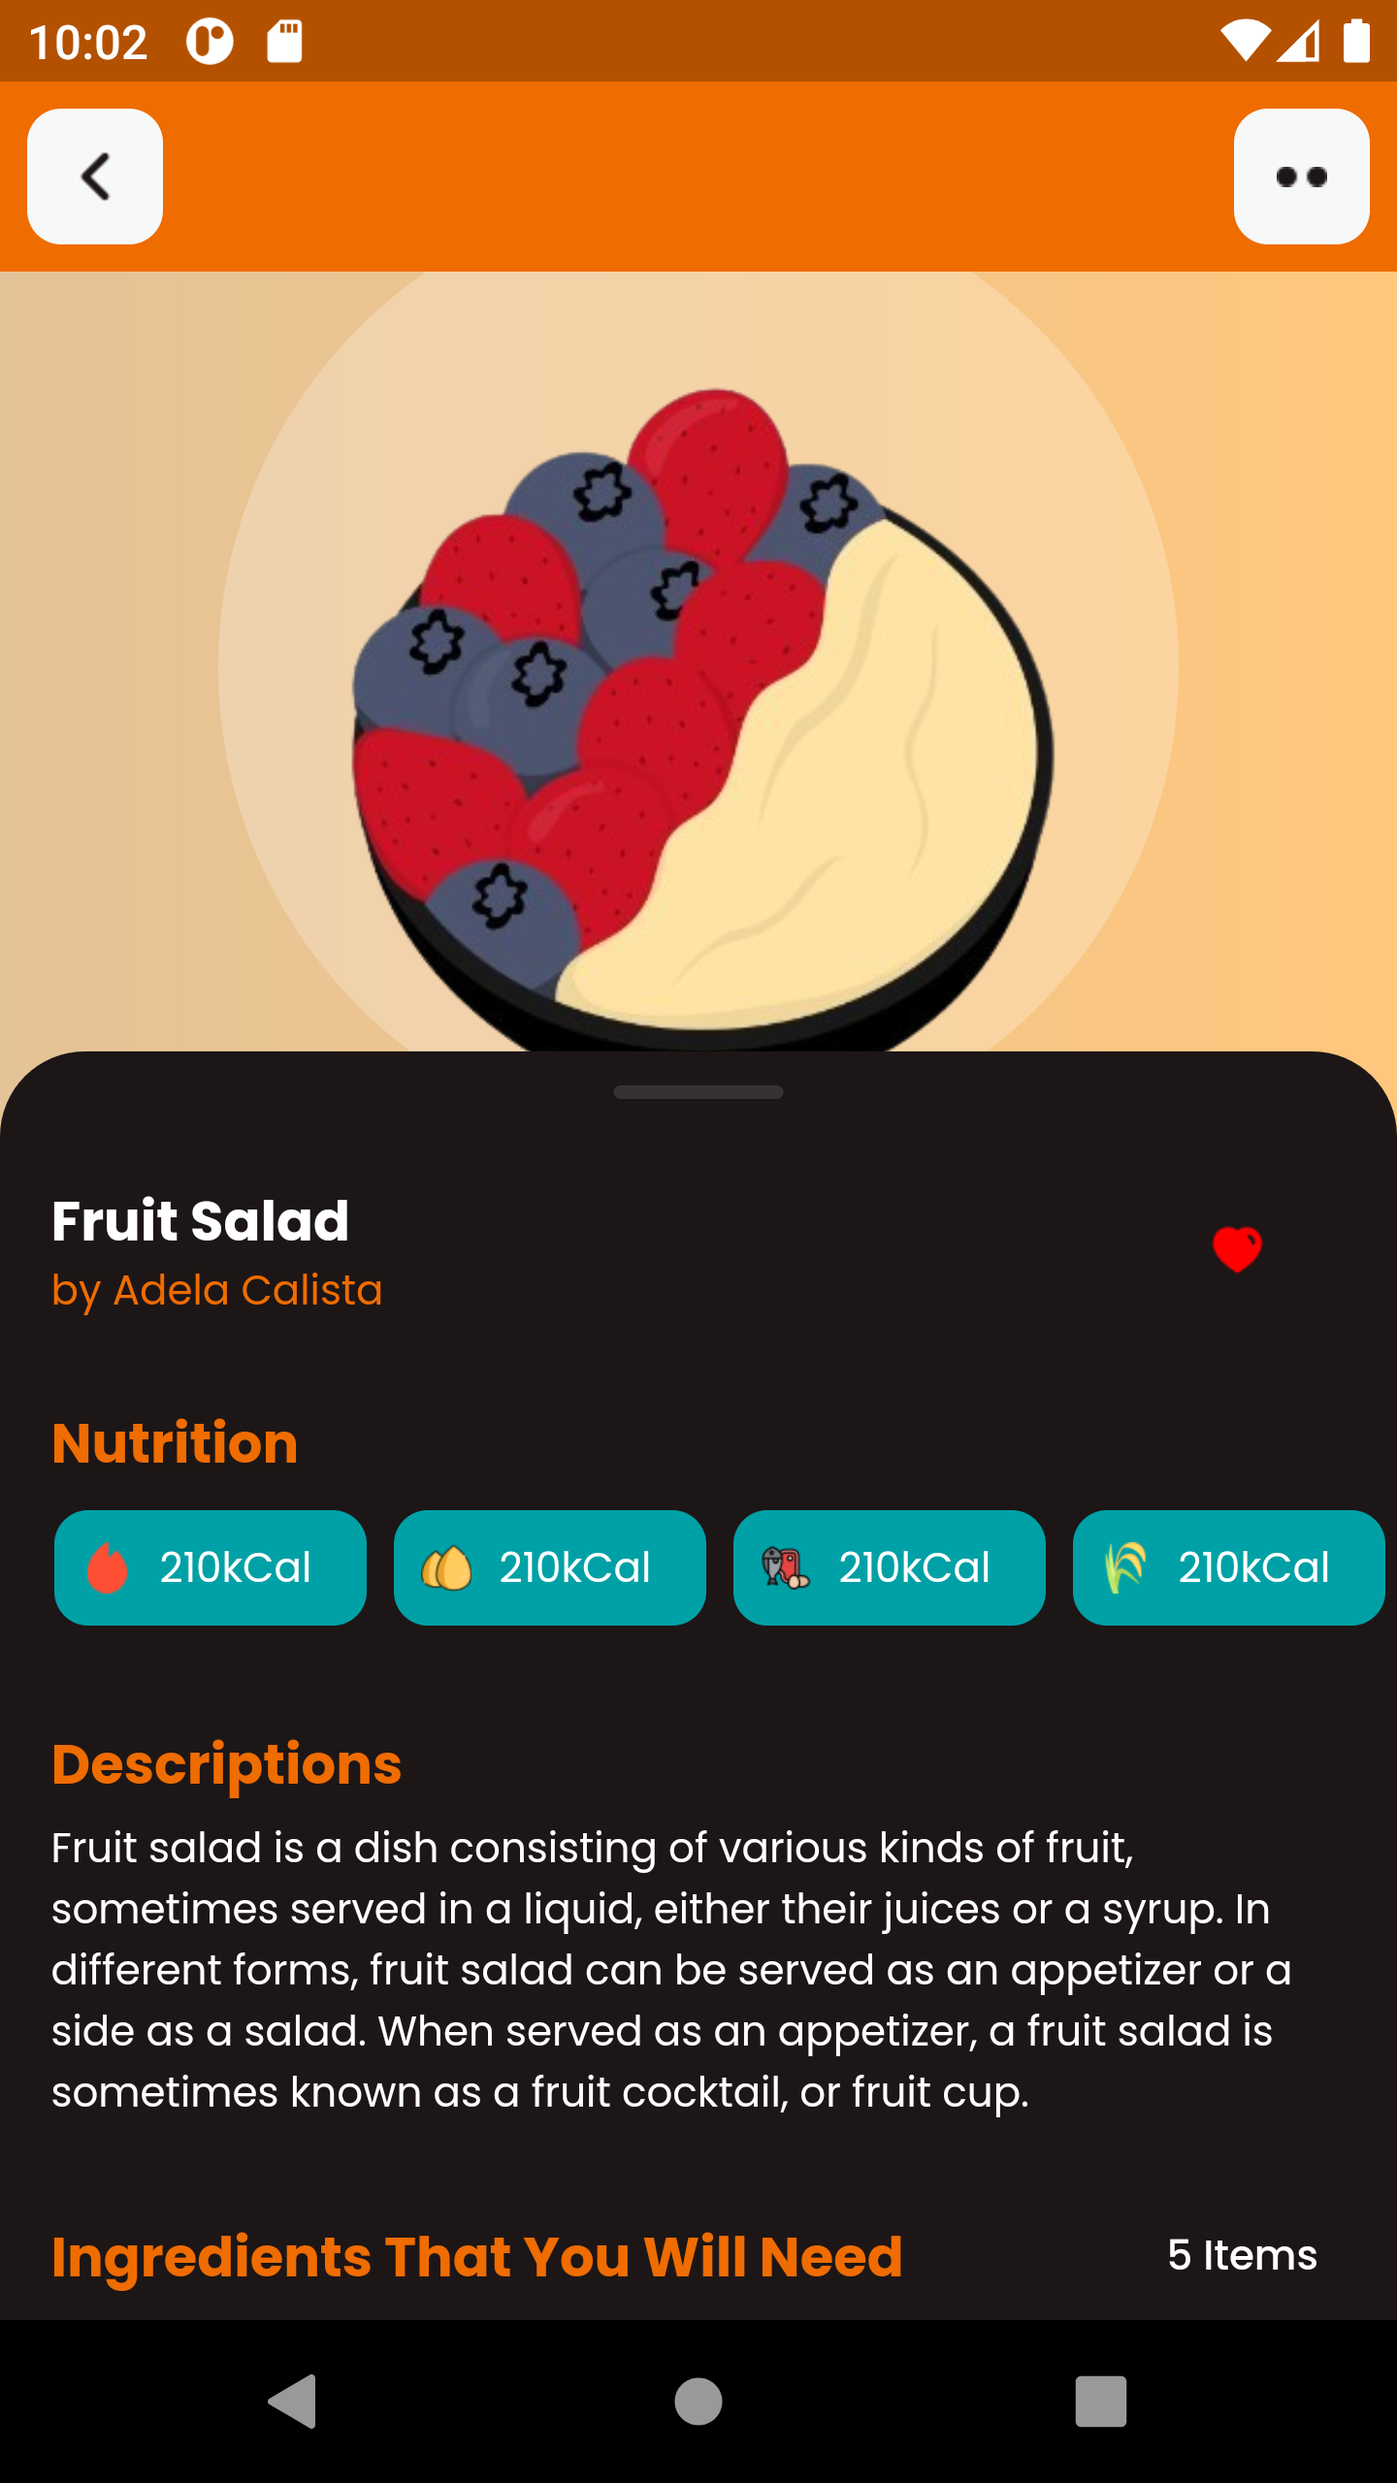
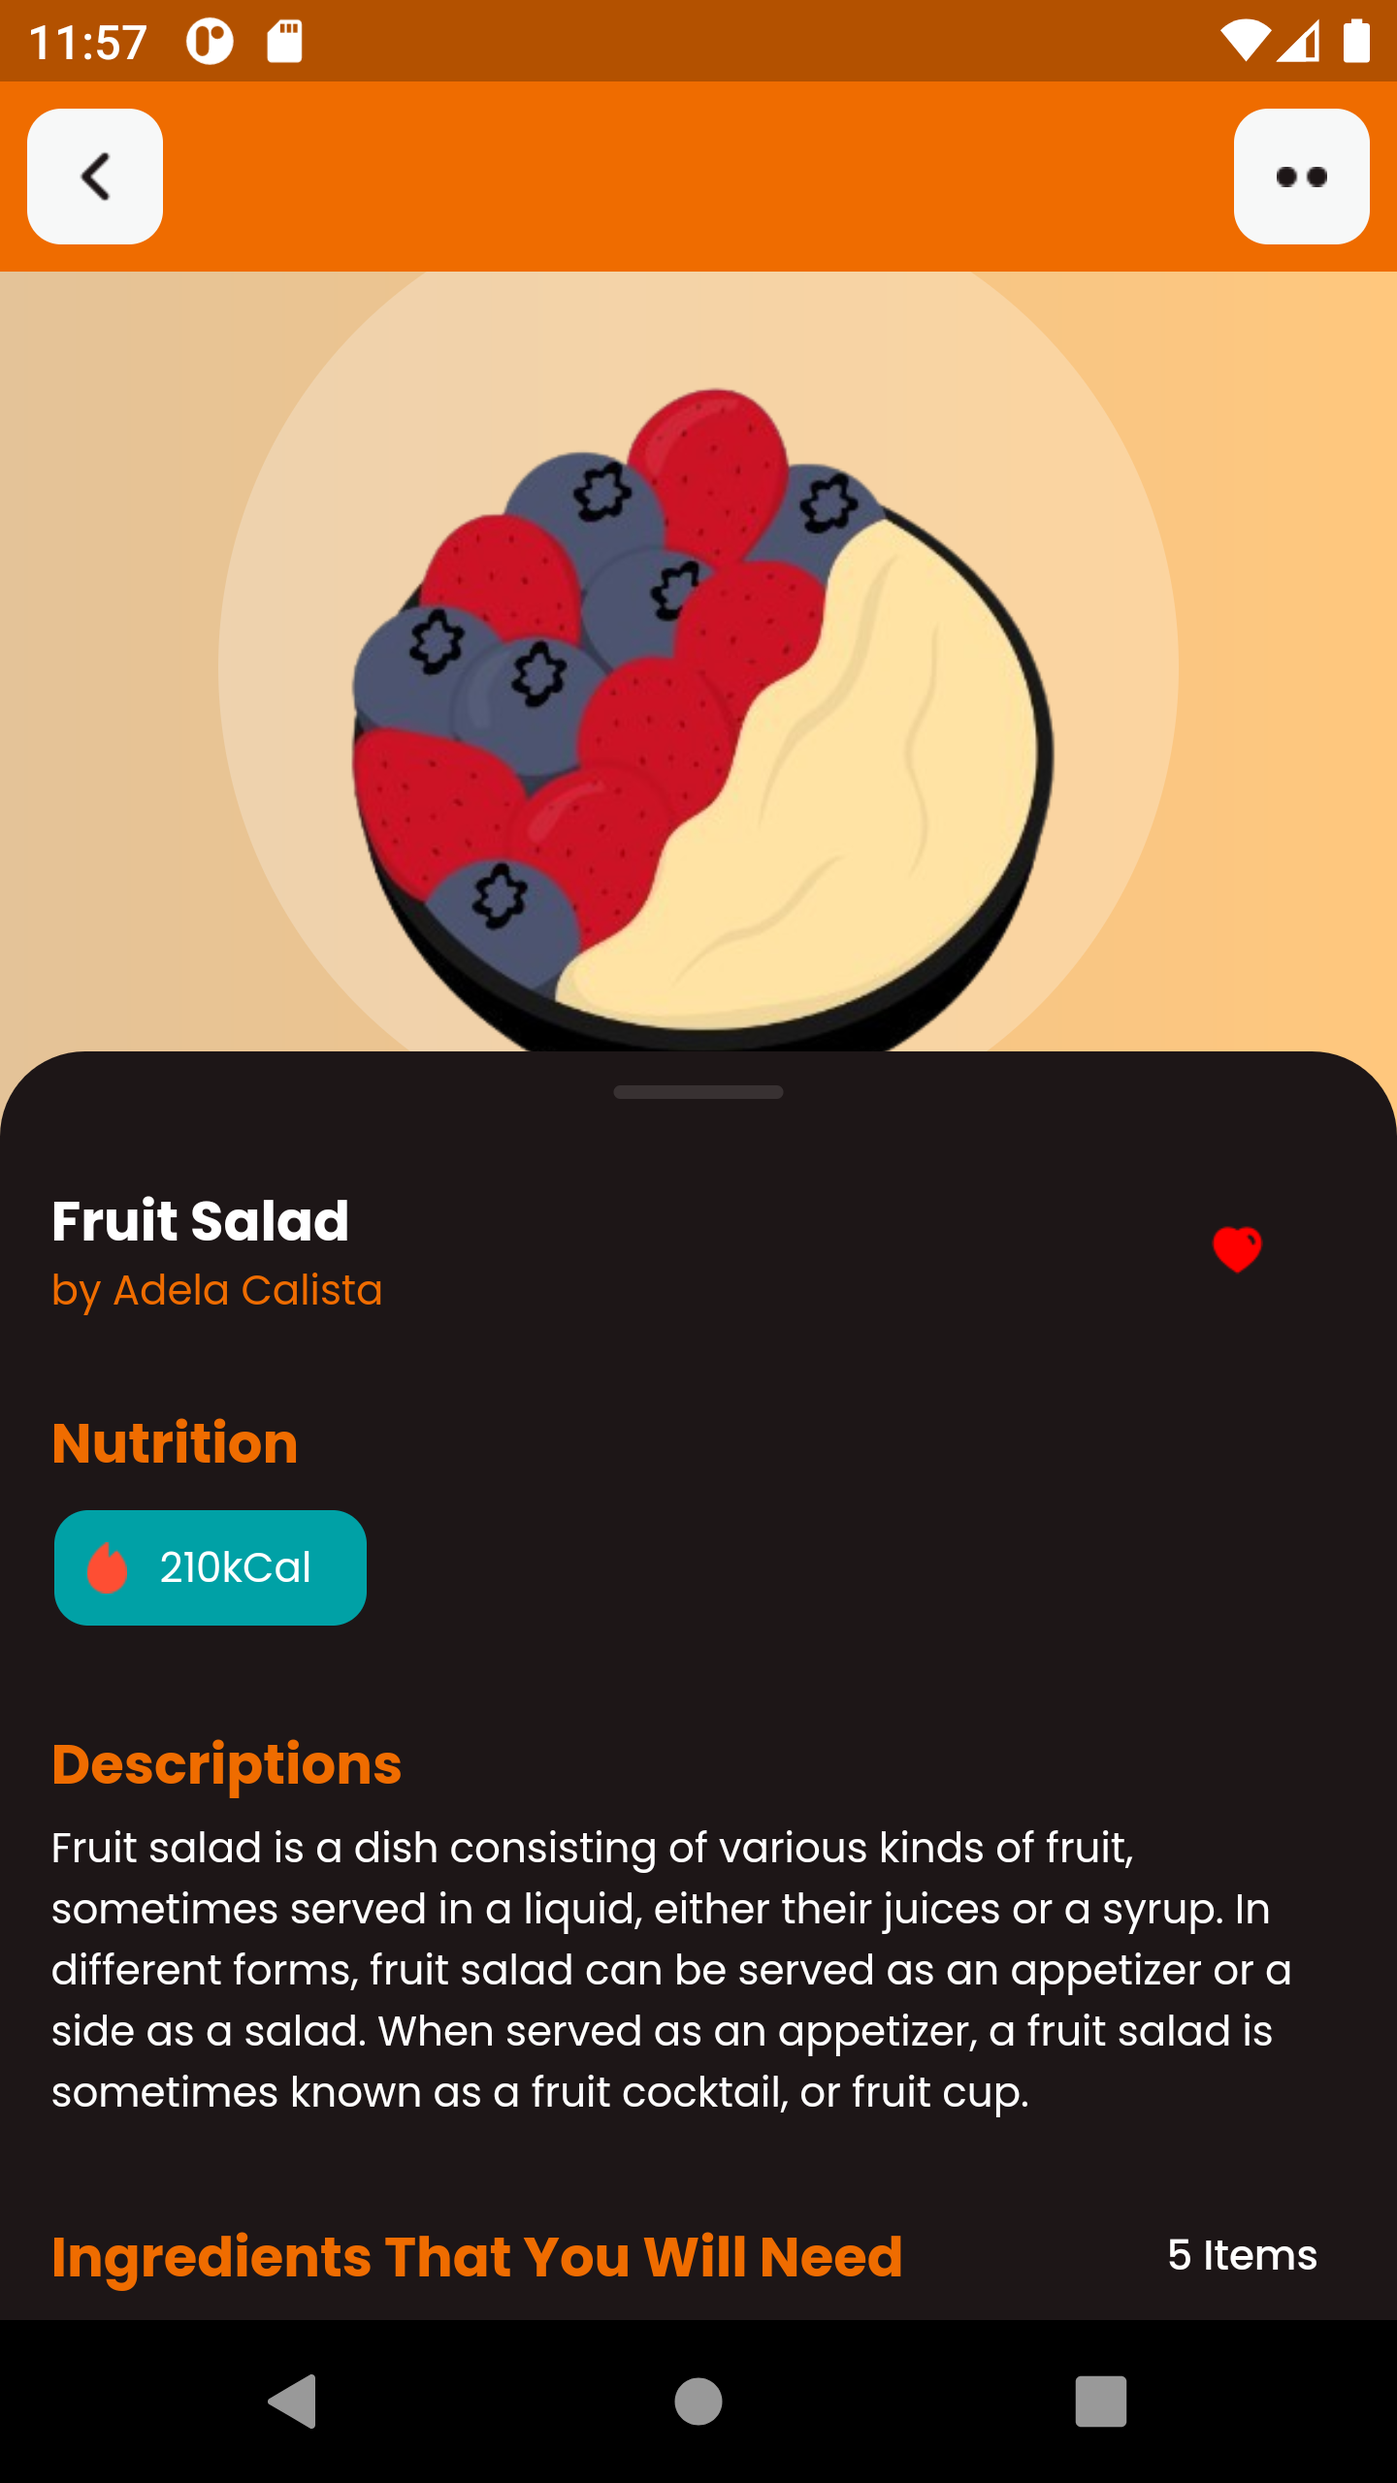
commit

Changed region(s): [[0.2812, 0.5938, 1.0, 0.6562], [0.0312, 0.0, 0.0938, 0.0312]]

diff --git a/lib/meal_planner/breakfast.dart b/lib/meal_planner/breakfast.dart
@@ -195,69 +195,6 @@ class _MealFoodDetailsViewState extends State<MealFoodDetailsViewBreakfast> {
                         blurRadius: 2,
                         offset: Offset(0, 1))
                   ]),
-              child: Row(
-                children: [
-                  Expanded(
-                      child: TextField(
-                        controller: txtSearch,
-                        decoration: InputDecoration(
-                            focusedBorder: InputBorder.none,
-                            enabledBorder: InputBorder.none,
-                            prefixIcon: Image.asset(
-                              "assets/img/search.png",
-                              width: 25,
-                              height: 25,
-                            ),
-                            hintText: "What Would You Like To Eat?"),
-                      )),
-                  Container(
-                    margin: const EdgeInsets.symmetric(horizontal: 8),
-                    width: 1,
-                    height: 25,
-                    color: TColor.gray.withOpacity(0.3),
-                  ),
-                  InkWell(
-                    onTap: () {},
-                    child: Image.asset(
-                      "assets/img/Filter.png",
-                      width: 25,
-                      height: 25,
-                    ),
-                  )
-                ],
-              ),
-            ),
-            SizedBox(
-              height: media.width * 0.05,
-            ),
-            Padding(
-              padding: const EdgeInsets.symmetric(horizontal: 20.0),
-              child: Row(
-                mainAxisAlignment: MainAxisAlignment.spaceBetween,
-                children: [
-                  Text(
-                    "Choose from selection",
-                    style: TextStyle(
-                        color: TColor.white,
-                        fontSize: 16,
-                        fontWeight: FontWeight.w700),
-                  ),
-                ],
-              ),
-            ),
-            SizedBox(
-              height: 120,
-              child: ListView.builder(
-                  padding: const EdgeInsets.symmetric(horizontal: 15.0),
-                  scrollDirection: Axis.horizontal,
-                  itemCount: categoryArr.length,
-                  itemBuilder: (context, index) {
-                    var cObj = categoryArr[index] as Map? ?? {};
-                    return MealCategoryCell(
-                      cObj: cObj,
-                      index: index,
-                    );
-                  }),
             ),
             SizedBox(
               height: media.width * 0.05,
@@ -265,7 +202,7 @@ class _MealFoodDetailsViewState extends State<MealFoodDetailsViewBreakfast> {
             Padding(
               padding: const EdgeInsets.symmetric(horizontal: 20.0),
               child: Text(
-                "Recommendation\nfor Diet",
+                "Recommendation",
                 style: TextStyle(
                     color: TColor.white,
                     fontSize: 16,

diff --git a/lib/meal_planner/dinner.dart b/lib/meal_planner/dinner.dart
@@ -169,69 +169,6 @@ class _MealFoodDetailsViewState extends State<MealFoodDetailsViewDinner> {
                         blurRadius: 2,
                         offset: Offset(0, 1))
                   ]),
-              child: Row(
-                children: [
-                  Expanded(
-                      child: TextField(
-                        controller: txtSearch,
-                        decoration: InputDecoration(
-                            focusedBorder: InputBorder.none,
-                            enabledBorder: InputBorder.none,
-                            prefixIcon: Image.asset(
-                              "assets/img/search.png",
-                              width: 25,
-                              height: 25,
-                            ),
-                            hintText: "What Would You Like To Eat?"),
-                      )),
-                  Container(
-                    margin: const EdgeInsets.symmetric(horizontal: 8),
-                    width: 1,
-                    height: 25,
-                    color: TColor.gray.withOpacity(0.3),
-                  ),
-                  InkWell(
-                    onTap: () {},
-                    child: Image.asset(
-                      "assets/img/Filter.png",
-                      width: 25,
-                      height: 25,
-                    ),
-                  )
-                ],
-              ),
-            ),
-            SizedBox(
-              height: media.width * 0.05,
-            ),
-            Padding(
-              padding: const EdgeInsets.symmetric(horizontal: 20.0),
-              child: Row(
-                mainAxisAlignment: MainAxisAlignment.spaceBetween,
-                children: [
-                  Text(
-                    "Choose from selection",
-                    style: TextStyle(
-                        color: TColor.white,
-                        fontSize: 16,
-                        fontWeight: FontWeight.w700),
-                  ),
-                ],
-              ),
-            ),
-            SizedBox(
-              height: 120,
-              child: ListView.builder(
-                  padding: const EdgeInsets.symmetric(horizontal: 15.0),
-                  scrollDirection: Axis.horizontal,
-                  itemCount: categoryArr.length,
-                  itemBuilder: (context, index) {
-                    var cObj = categoryArr[index] as Map? ?? {};
-                    return MealCategoryCell(
-                      cObj: cObj,
-                      index: index,
-                    );
-                  }),
             ),
             SizedBox(
               height: media.width * 0.05,
@@ -239,7 +176,7 @@ class _MealFoodDetailsViewState extends State<MealFoodDetailsViewDinner> {
             Padding(
               padding: const EdgeInsets.symmetric(horizontal: 20.0),
               child: Text(
-                "Recommendation\nfor Diet",
+                "Recommendation",
                 style: TextStyle(
                     color: TColor.white,
                     fontSize: 16,

diff --git a/lib/meal_planner/snacks.dart b/lib/meal_planner/snacks.dart
@@ -175,69 +175,6 @@ class _MealFoodDetailsViewState extends State<MealFoodDetailsViewSnacks> {
                         blurRadius: 2,
                         offset: Offset(0, 1))
                   ]),
-              child: Row(
-                children: [
-                  Expanded(
-                      child: TextField(
-                        controller: txtSearch,
-                        decoration: InputDecoration(
-                            focusedBorder: InputBorder.none,
-                            enabledBorder: InputBorder.none,
-                            prefixIcon: Image.asset(
-                              "assets/img/search.png",
-                              width: 25,
-                              height: 25,
-                            ),
-                            hintText: "What Would You Like To Eat?"),
-                      )),
-                  Container(
-                    margin: const EdgeInsets.symmetric(horizontal: 8),
-                    width: 1,
-                    height: 25,
-                    color: TColor.gray.withOpacity(0.3),
-                  ),
-                  InkWell(
-                    onTap: () {},
-                    child: Image.asset(
-                      "assets/img/Filter.png",
-                      width: 25,
-                      height: 25,
-                    ),
-                  )
-                ],
-              ),
-            ),
-            SizedBox(
-              height: media.width * 0.05,
-            ),
-            Padding(
-              padding: const EdgeInsets.symmetric(horizontal: 20.0),
-              child: Row(
-                mainAxisAlignment: MainAxisAlignment.spaceBetween,
-                children: [
-                  Text(
-                    "Choose from selection",
-                    style: TextStyle(
-                        color: TColor.white,
-                        fontSize: 16,
-                        fontWeight: FontWeight.w700),
-                  ),
-                ],
-              ),
-            ),
-            SizedBox(
-              height: 120,
-              child: ListView.builder(
-                  padding: const EdgeInsets.symmetric(horizontal: 15.0),
-                  scrollDirection: Axis.horizontal,
-                  itemCount: categoryArr.length,
-                  itemBuilder: (context, index) {
-                    var cObj = categoryArr[index] as Map? ?? {};
-                    return MealCategoryCell(
-                      cObj: cObj,
-                      index: index,
-                    );
-                  }),
             ),
             SizedBox(
               height: media.width * 0.05,
@@ -245,7 +182,7 @@ class _MealFoodDetailsViewState extends State<MealFoodDetailsViewSnacks> {
             Padding(
               padding: const EdgeInsets.symmetric(horizontal: 20.0),
               child: Text(
-                "Recommendation\nfor Diet",
+                "Recommendation",
                 style: TextStyle(
                     color: TColor.white,
                     fontSize: 16,

diff --git a/lib/meal_planner/lunch.dart b/lib/meal_planner/lunch.dart
@@ -169,69 +169,6 @@ class _MealFoodDetailsViewState extends State<MealFoodDetailsViewLunch> {
                         blurRadius: 2,
                         offset: Offset(0, 1))
                   ]),
-              child: Row(
-                children: [
-                  Expanded(
-                      child: TextField(
-                        controller: txtSearch,
-                        decoration: InputDecoration(
-                            focusedBorder: InputBorder.none,
-                            enabledBorder: InputBorder.none,
-                            prefixIcon: Image.asset(
-                              "assets/img/search.png",
-                              width: 25,
-                              height: 25,
-                            ),
-                            hintText: "What Would You Like To Eat?"),
-                      )),
-                  Container(
-                    margin: const EdgeInsets.symmetric(horizontal: 8),
-                    width: 1,
-                    height: 25,
-                    color: TColor.gray.withOpacity(0.3),
-                  ),
-                  InkWell(
-                    onTap: () {},
-                    child: Image.asset(
-                      "assets/img/Filter.png",
-                      width: 25,
-                      height: 25,
-                    ),
-                  )
-                ],
-              ),
-            ),
-            SizedBox(
-              height: media.width * 0.05,
-            ),
-            Padding(
-              padding: const EdgeInsets.symmetric(horizontal: 20.0),
-              child: Row(
-                mainAxisAlignment: MainAxisAlignment.spaceBetween,
-                children: [
-                  Text(
-                    "Choose from selection",
-                    style: TextStyle(
-                        color: TColor.white,
-                        fontSize: 16,
-                        fontWeight: FontWeight.w700),
-                  ),
-                ],
-              ),
-            ),
-            SizedBox(
-              height: 120,
-              child: ListView.builder(
-                  padding: const EdgeInsets.symmetric(horizontal: 15.0),
-                  scrollDirection: Axis.horizontal,
-                  itemCount: categoryArr.length,
-                  itemBuilder: (context, index) {
-                    var cObj = categoryArr[index] as Map? ?? {};
-                    return MealCategoryCell(
-                      cObj: cObj,
-                      index: index,
-                    );
-                  }),
             ),
             SizedBox(
               height: media.width * 0.05,
@@ -239,7 +176,7 @@ class _MealFoodDetailsViewState extends State<MealFoodDetailsViewLunch> {
             Padding(
               padding: const EdgeInsets.symmetric(horizontal: 20.0),
               child: Text(
-                "Recommendation\nfor Diet",
+                "Recommendation",
                 style: TextStyle(
                     color: TColor.white,
                     fontSize: 16,

diff --git a/lib/login/signup_view.dart b/lib/login/signup_view.dart
@@ -271,7 +271,7 @@ class _SignUpViewState extends State<SignUpView> {
                           context,
                           MaterialPageRoute(
                               builder: (context) =>
-                              const CompleteProfileView()));
+                              const LoginView()));
                         });
                         }
                 }),

diff --git a/lib/meal_planner/food_info_details_view.dart b/lib/meal_planner/food_info_details_view.dart
@@ -20,9 +20,6 @@ class FoodInfoDetailsView extends StatefulWidget {
 class _FoodInfoDetailsViewState extends State<FoodInfoDetailsView> {
   List nutritionArr = [
     {"image": "assets/img/burn.png"},
-    {"image": "assets/img/egg.png"},
-    {"image": "assets/img/proteins.png"},
-    {"image": "assets/img/carbo.png"},
   ];
 
   List stepArr = [
